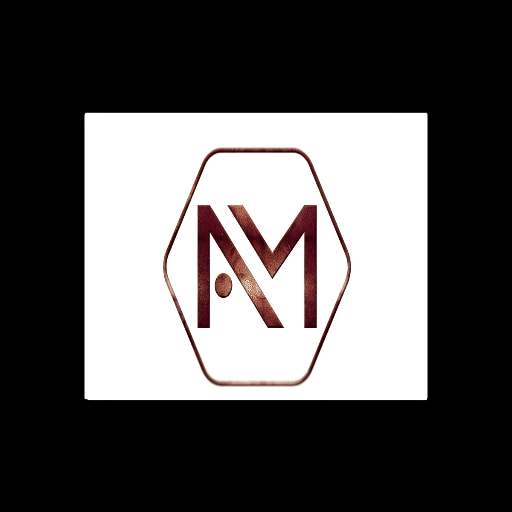
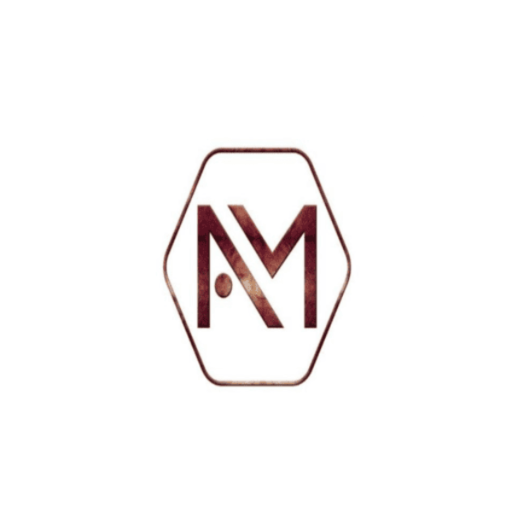
deploy: 7f2ee9059c61b430a9d47553a4ab52d9c5b91dde

diff --git a/assets/index-JWNTy8JT.css b/assets/index-JWNTy8JT.css
@@ -1,4 +1,4 @@
-@charset "UTF-8";.navbar{display:flex;justify-content:space-between;align-items:center;padding:1rem 2rem;background-color:#fff;color:#fff}.navbar-logo a{color:#fff;text-decoration:none;font-size:1.5rem;font-weight:700}.navbar-links{list-style:none;display:flex;gap:1rem}.navbar-links li a{color:#fff;text-decoration:none}.navbar-links li a:hover{text-decoration:underline}.Logo{width:36px;height:36px;border-radius:8px;margin-right:8px;box-shadow:0 0 8px #0000001a;background-size:250% auto;background-position:center;background-repeat:no-repeat;background-image:url(/woodwork/assets/logo-C5QVShqA.ico);transition:box-shadow .3s ease;cursor:pointer;display:inline-block;vertical-align:middle;background-color:transparent;background-blend-mode:multiply;background-origin:border-box;background-clip:border-box;border:2px solid transparent;box-sizing:border-box}.Logo:hover{box-shadow:0 0 12px #0003}.Logo-text{height:50px;width:200px;margin:0;padding:0;background-position:center;background-size:100% auto;background-repeat:no-repeat;display:inline-block;vertical-align:middle;background-color:transparent;background-blend-mode:multiply;background-origin:border-box;background-clip:border-box;border:2px solid transparent;box-sizing:border-box;transition:box-shadow .3s ease;cursor:pointer;background-image:url(/woodwork/assets/logo_text-DnedYvKt.png)}.footer{width:100%;margin-bottom:0}.footer h5{color:#000;margin-bottom:1rem;font-weight:600}.footer p{color:#000;line-height:1.6}.footer a{color:#000;text-decoration:none;transition:color .3s ease}.footer a:hover{color:#000;text-decoration:underline}.footer ul{padding-left:0}.footer ul li{margin-bottom:.5rem}.footer hr{border-color:#000}.footer .text-center p{color:#000;font-size:.9rem}.catalog-card{border:1px solid #ddd;border-radius:5px;padding:1rem;text-align:center}.catalog-card img{max-width:100%;height:auto}.catalog-card h3{margin:1rem 0}.catalog-card p{color:#666}.catalog-grid{display:grid;grid-template-columns:repeat(auto-fill,minmax(250px,1fr));gap:1rem;padding:2rem}.button{background-color:#007bff;color:#fff;border:none;padding:10px 20px;border-radius:5px;cursor:pointer;font-size:16px}.button:hover{background-color:#0056b3}.login-form{display:flex;flex-direction:column;gap:1rem;max-width:300px;margin:2rem auto}.login-form input{padding:.5rem;border:1px solid #ddd;border-radius:5px}/*!
+@charset "UTF-8";.navbar{display:flex;justify-content:space-between;align-items:center;padding:1rem 2rem;background-color:#fff;color:#fff}.navbar-logo a{color:#fff;text-decoration:none;font-size:1.5rem;font-weight:700}.navbar-links{list-style:none;display:flex;gap:1rem}.navbar-links li a{color:#fff;text-decoration:none}.navbar-links li a:hover{text-decoration:underline}.Logo{width:36px;height:36px;border-radius:8px;margin-right:8px;box-shadow:0 0 8px #0000001a;background-size:250% auto;background-position:center;background-repeat:no-repeat;background-image:url(/woodwork/assets/logoBetter-Diou6gMX.png);transition:box-shadow .3s ease;cursor:pointer;display:inline-block;vertical-align:middle;background-color:transparent;background-blend-mode:multiply;background-origin:border-box;background-clip:border-box;border:2px solid transparent;box-sizing:border-box}.Logo:hover{box-shadow:0 0 12px #0003}.Logo-text{height:50px;width:200px;margin:0;padding:0;background-position:center;background-size:100% auto;background-repeat:no-repeat;display:inline-block;vertical-align:middle;background-color:transparent;background-blend-mode:multiply;background-origin:border-box;background-clip:border-box;border:2px solid transparent;box-sizing:border-box;transition:box-shadow .3s ease;cursor:pointer;background-image:url(/woodwork/assets/logo_text-DnedYvKt.png)}.footer{width:100%;margin-bottom:0}.footer h5{color:#000;margin-bottom:1rem;font-weight:600}.footer p{color:#000;line-height:1.6}.footer a{color:#000;text-decoration:none;transition:color .3s ease}.footer a:hover{color:#000;text-decoration:underline}.footer ul{padding-left:0}.footer ul li{margin-bottom:.5rem}.footer hr{border-color:#000}.footer .text-center p{color:#000;font-size:.9rem}.catalog-card{border:1px solid #ddd;border-radius:5px;padding:1rem;text-align:center}.catalog-card img{max-width:100%;height:auto}.catalog-card h3{margin:1rem 0}.catalog-card p{color:#666}.catalog-grid{display:grid;grid-template-columns:repeat(auto-fill,minmax(250px,1fr));gap:1rem;padding:2rem}.button{background-color:#007bff;color:#fff;border:none;padding:10px 20px;border-radius:5px;cursor:pointer;font-size:16px}.button:hover{background-color:#0056b3}.login-form{display:flex;flex-direction:column;gap:1rem;max-width:300px;margin:2rem auto}.login-form input{padding:.5rem;border:1px solid #ddd;border-radius:5px}/*!
  * Bootstrap  v5.3.8 (https://getbootstrap.com/)
  * Copyright 2011-2025 The Bootstrap Authors
  * Licensed under MIT (https://github.com/twbs/bootstrap/blob/main/LICENSE)

diff --git a/index.html b/index.html
@@ -8,8 +8,8 @@
     <link rel="manifest" href="/woodwork/site.webmanifest">
     <meta name="viewport" content="width=device-width, initial-scale=1.0" />
     <title>WoodWork</title>
-    <script type="module" crossorigin src="/woodwork/assets/index-aXIvyENz.js"></script>
-    <link rel="stylesheet" crossorigin href="/woodwork/assets/index-B11zw2Cf.css">
+    <script type="module" crossorigin src="/woodwork/assets/index-CDABXbR7.js"></script>
+    <link rel="stylesheet" crossorigin href="/woodwork/assets/index-JWNTy8JT.css">
   </head>
   <body>
     <div id="root"></div>
